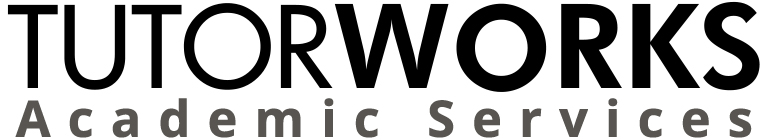
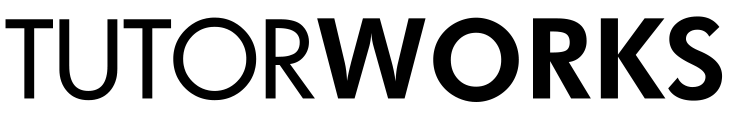
replaced tutorworks image

diff --git a/client/src/Layout.jsx b/client/src/Layout.jsx
@@ -89,21 +89,25 @@ export class Layout extends Component {
           {this.state.isButtonSubmitted ? (
             <div>
               <h1>Hi {this.state.name}!</h1>
-              <div>
-                <button onClick={this.setCount}>Kicked/Booted Out</button>
-                <label>{this.state.count}</label>
-              </div>
-              <div>
-                <button onClick={this.setAudioCount}>Audio issue</button>
-                <label>{this.state.countAudio}</label>
-              </div>
-              <div>
-                <button onClick={this.setVideoCount}>Video issue</button>
-                <label>{this.state.countVideo}</label>
-              </div>
-              <div>
-                <button onClick={this.setFreezeCount}>Freezing issue</button>
-                <label>{this.state.countFreeze}</label>
+              <div className="flex flex-col gap-4">
+                <div>
+                  <button className="btn shadow-lg" onClick={this.setCount}>
+                    Kicked/Booted Out
+                  </button>
+                  <label>{this.state.count}</label>
+                </div>
+                <div>
+                  <button className="btn shadow-2xl" onClick={this.setAudioCount}>Audio issue</button>
+                  <label>{this.state.countAudio}</label>
+                </div>
+                <div>
+                  <button className="btn shadow-sm" onClick={this.setVideoCount}>Video issue</button>
+                  <label>{this.state.countVideo}</label>
+                </div>
+                <div>
+                  <button className="btn shadow-sm" onClick={this.setFreezeCount}>Freezing issue</button>
+                  <label>{this.state.countFreeze}</label>
+                </div>
               </div>
             </div>
           ) : (
@@ -121,7 +125,11 @@ export class Layout extends Component {
                     onChange={this.handleNameChange}
                   />
                 </div>
-                <button className="btn btn-primary w-64" type="submit" disabled={this.state.name < 1}>
+                <button
+                  className="btn btn-primary w-64"
+                  type="submit"
+                  disabled={this.state.name < 1}
+                >
                   Submit
                 </button>
               </form>
